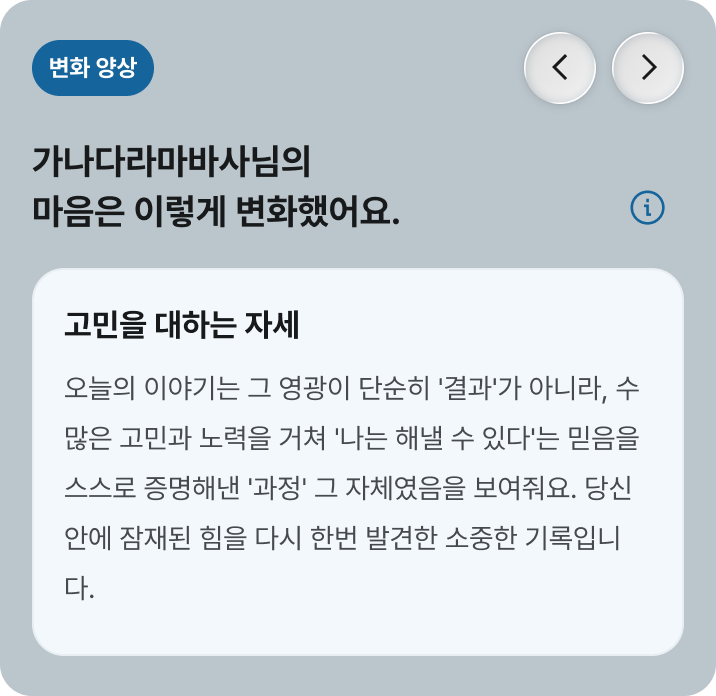
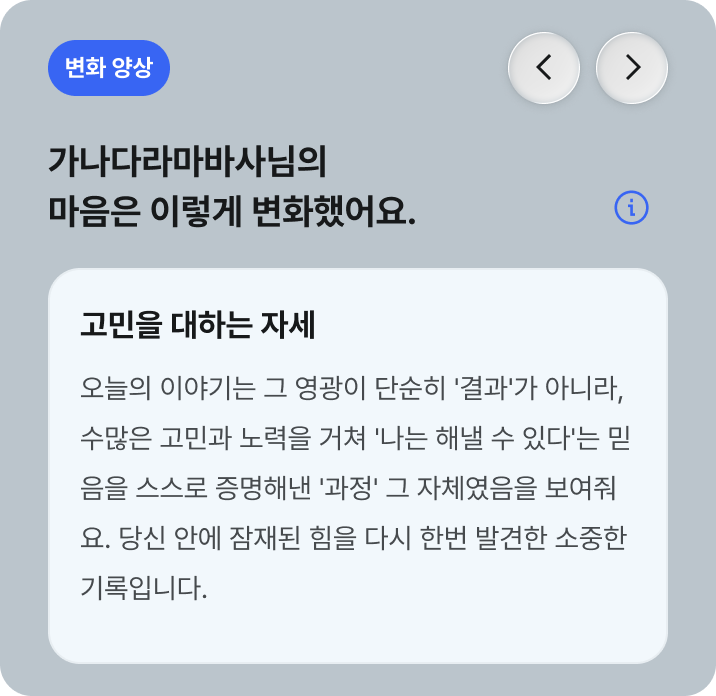
fix(ui): 디자인 변경 사항 반영

diff --git a/src/components/Icons.tsx b/src/components/Icons.tsx
@@ -60,7 +60,7 @@ export function RoundEmailIcon() {
     >
       <path
         d="M20 4H4C2.9 4 2.01 4.9 2.01 6L2 18C2 19.1 2.9 20 4 20H20C21.1 20 22 19.1 22 18V6C22 4.9 21.1 4 20 4ZM19.6 8.25L12.53 12.67C12.21 12.87 11.79 12.87 11.47 12.67L4.4 8.25C4.29973 8.19371 4.21192 8.11766 4.14189 8.02645C4.07186 7.93525 4.02106 7.83078 3.99258 7.71937C3.96409 7.60796 3.9585 7.49194 3.97616 7.37831C3.99381 7.26468 4.03434 7.15581 4.09528 7.0583C4.15623 6.96079 4.23632 6.87666 4.33073 6.811C4.42513 6.74533 4.53187 6.69951 4.6445 6.6763C4.75712 6.65309 4.87328 6.65297 4.98595 6.67595C5.09863 6.69893 5.20546 6.74453 5.3 6.81L12 11L18.7 6.81C18.7945 6.74453 18.9014 6.69893 19.014 6.67595C19.1267 6.65297 19.2429 6.65309 19.3555 6.6763C19.4681 6.69951 19.5749 6.74533 19.6693 6.811C19.7637 6.87666 19.8438 6.96079 19.9047 7.0583C19.9657 7.15581 20.0062 7.26468 20.0238 7.37831C20.0415 7.49194 20.0359 7.60796 20.0074 7.71937C19.9789 7.83078 19.9281 7.93525 19.8581 8.02645C19.7881 8.11766 19.7003 8.19371 19.6 8.25Z"
-        fill="#3D3C3C"
+        fill="var(--color-icon-default)"
       />
     </svg>
   );
@@ -79,13 +79,13 @@ export function ArrowLeftIcon() {
         fillRule="evenodd"
         clipRule="evenodd"
         d="M5.06055 10.7803H20.0605V12.2803H5.06055V10.7803Z"
-        fill="#3D3C3C"
+        fill="var(--color-icon-default)"
       />
       <path
         fillRule="evenodd"
         clipRule="evenodd"
         d="M6.12132 11.5303L12.591 5.06066L11.5303 4L4 11.5303L11.5303 19.0607L12.591 18L6.12132 11.5303Z"
-        fill="#3D3C3C"
+        fill="var(--color-icon-default)"
       />
     </svg>
   );
@@ -189,7 +189,6 @@ export function ChevronRightIcon() {
 export function BarChartSquareFilledIcon() {
   return (
     <svg
-      className="text-icon-primary"
       width="36"
       height="36"
       viewBox="0 0 36 36"
@@ -198,7 +197,7 @@ export function BarChartSquareFilledIcon() {
     >
       <path
         d="M3 3V33H33V3H3ZM13.5 25.5H10.5V16.5H13.5V25.5ZM19.5 25.5H16.5V13.5H19.5V25.5ZM25.5 25.5H22.5V10.5H25.5V25.5Z"
-        fill="currentColor"
+        fill="var(--color-icon-primary)"
       />
     </svg>
   );
@@ -215,7 +214,7 @@ export function HappyFilledIcon() {
     >
       <path
         d="M18.75 3C10.05 3 3 10.05 3 18.75C3 27.45 10.05 34.5 18.75 34.5C27.45 34.5 34.5 27.45 34.5 18.75C34.5 10.05 27.45 3 18.75 3ZM13.5 12.75C14.7 12.75 15.75 13.8 15.75 15C15.75 16.2 14.7 17.25 13.5 17.25C12.3 17.25 11.25 16.2 11.25 15C11.25 13.8 12.3 12.75 13.5 12.75ZM18.75 26.85C16.2 26.85 13.65 25.95 11.7 24L13.8 21.9C16.5 24.6 21 24.6 23.7 21.9L25.8 24C23.85 25.95 21.3 26.85 18.75 26.85ZM24 17.25C22.8 17.25 21.75 16.2 21.75 15C21.75 13.8 22.8 12.75 24 12.75C25.2 12.75 26.25 13.8 26.25 15C26.25 16.2 25.2 17.25 24 17.25Z"
-        fill="#15649B"
+        fill="var(--color-icon-primary)"
       />
     </svg>
   );
@@ -232,15 +231,15 @@ export function CoffeeFilledIcon() {
     >
       <path
         d="M11.25 7.50026C11.25 7.61276 11.1765 7.73426 11.0445 7.84376C10.4055 8.37176 10.317 9.31676 10.845 9.95576C11.142 10.3143 11.5695 10.5003 12.0015 10.5003C12.339 10.5003 12.6765 10.3878 12.957 10.1568C13.779 9.47576 14.2515 8.50826 14.2515 7.50026C14.2515 6.49226 13.7805 5.52476 12.957 4.84376C12.825 4.73426 12.7515 4.61126 12.7515 4.50026C12.7515 4.38926 12.825 4.26625 12.957 4.15676C13.596 3.62876 13.6845 2.68376 13.1565 2.04476C12.627 1.40576 11.682 1.31726 11.0445 1.84526C10.2225 2.52626 9.75 3.49376 9.75 4.50176C9.75 5.50976 10.221 6.47726 11.0445 7.15826C11.1765 7.26776 11.25 7.38926 11.25 7.50026Z"
-        fill="#15649B"
+        fill="var(--color-icon-primary)"
       />
       <path
         d="M17.25 7.50026C17.25 7.61276 17.1765 7.73426 17.0445 7.84376C16.4055 8.37176 16.317 9.31676 16.845 9.95576C17.142 10.3143 17.5695 10.5003 18.0015 10.5003C18.339 10.5003 18.6765 10.3878 18.957 10.1568C19.779 9.47576 20.2515 8.50826 20.2515 7.50026C20.2515 6.49226 19.7805 5.52476 18.957 4.84376C18.825 4.73426 18.7515 4.61126 18.7515 4.50026C18.7515 4.38926 18.825 4.26625 18.957 4.15676C19.5945 3.62876 19.686 2.68376 19.1565 2.04476C18.6285 1.40576 17.6835 1.31726 17.0445 1.84526C16.2225 2.52626 15.75 3.49376 15.75 4.50176C15.75 5.50976 16.221 6.47726 17.0445 7.15826C17.1765 7.26776 17.25 7.38926 17.25 7.50026Z"
-        fill="#15649B"
+        fill="var(--color-icon-primary)"
       />
       <path
         d="M27.75 13.5H27C27 12.672 26.3295 12 25.5 12H6C5.172 12 4.5 12.672 4.5 13.5V27C4.5 31.1355 7.8645 34.5 12 34.5H19.5C23.6355 34.5 27 31.1355 27 27H27.75C31.4715 27 34.5 23.9715 34.5 20.25C34.5 16.5285 31.4715 13.5 27.75 13.5ZM27.75 24H27V16.5H27.75C29.8185 16.5 31.5 18.183 31.5 20.25C31.5 22.317 29.8185 24 27.75 24Z"
-        fill="#15649B"
+        fill="var(--color-icon-primary)"
       />
     </svg>
   );
@@ -249,7 +248,6 @@ export function CoffeeFilledIcon() {
 export function UsersFilledIcon() {
   return (
     <svg
-      className="text-icon-primary"
       width="36"
       height="36"
       viewBox="0 0 36 36"
@@ -258,19 +256,37 @@ export function UsersFilledIcon() {
     >
       <path
         d="M13.95 18C15.84 18 17.595 17.19 18.675 15.975C20.025 14.625 20.7 13.005 20.7 11.25C20.7 9.495 19.89 7.605 18.675 6.525C17.325 5.175 15.705 4.5 13.95 4.5C12.195 4.5 10.305 5.31 9.225 6.525C7.875 7.875 7.2 9.495 7.2 11.25C7.2 13.005 7.875 14.895 9.225 15.975C10.575 17.325 12.195 18 13.95 18Z"
-        fill="currentColor"
+        fill="var(--color-icon-primary)"
       />
       <path
         d="M21.51 22.725C20.295 21.375 18.675 20.7 16.65 20.7H11.25C9.495 20.7 7.875 21.375 6.525 22.59C5.175 23.805 4.5 25.425 4.5 27.45V31.5H23.4V27.45C23.4 25.695 22.725 24.075 21.51 22.725Z"
-        fill="currentColor"
+        fill="var(--color-icon-primary)"
       />
       <path
         d="M29.61 22.725C28.395 21.375 26.775 20.7 24.75 20.7H23.13C23.13 20.7 23.265 20.835 23.4 20.97C25.155 22.725 26.1 25.02 26.1 27.45V31.5H31.5V27.45C31.5 25.695 30.825 24.075 29.61 22.725Z"
-        fill="currentColor"
+        fill="var(--color-icon-primary)"
       />
       <path
         d="M26.775 6.525C25.425 5.175 23.805 4.5 22.05 4.5C20.295 4.5 21.105 4.5 20.7 4.635C22.455 6.255 23.4 8.685 23.4 11.25C23.4 13.815 22.455 15.975 20.7 17.865C21.105 17.865 21.645 18 22.05 18C23.94 18 25.695 17.19 26.775 15.975C28.125 14.625 28.8 13.005 28.8 11.25C28.8 9.495 27.99 7.605 26.775 6.525Z"
-        fill="currentColor"
+        fill="var(--color-icon-primary)"
+      />
+    </svg>
+  );
+}
+
+// Todo: 하나로 합치자....
+export function CategoryCircleCheckFilledIcon() {
+  return (
+    <svg
+      width="24"
+      height="24"
+      viewBox="0 0 24 24"
+      fill="none"
+      xmlns="http://www.w3.org/2000/svg"
+    >
+      <path
+        d="M12 1C5.935 1 1 5.935 1 12C1 18.065 5.935 23 12 23C18.065 23 23 18.065 23 12C23 5.935 18.065 1 12 1ZM10.309 16.751L6.288 12.674L7.712 11.27L10.32 13.915L16.294 7.958L17.706 9.374L10.309 16.751Z"
+        fill="var(--color-icon-primary)"
       />
     </svg>
   );
@@ -332,7 +348,7 @@ export function SuccessIcon({ className }: { className?: string }) {
         fillRule="evenodd"
         clipRule="evenodd"
         d="M9.51049 15.4674L19.0044 6L20.0636 7.06214L9.50156 17.5947L4 12.0157L5.06805 10.9625L9.51049 15.4674Z"
-        fill="#16A34A"
+        fill="var(--color-icon-success)"
       />
     </svg>
   );
@@ -350,7 +366,7 @@ export function CircleCheckFilledIcon() {
     >
       <path
         d="M27.9996 12.5999C19.5086 12.5999 12.5996 19.5089 12.5996 27.9999C12.5996 36.4909 19.5086 43.3999 27.9996 43.3999C36.4906 43.3999 43.3996 36.4909 43.3996 27.9999C43.3996 19.5089 36.4906 12.5999 27.9996 12.5999ZM25.6322 34.6513L20.0028 28.9435L21.9964 26.9779L25.6476 30.6809L34.0112 22.3411L35.988 24.3235L25.6322 34.6513Z"
-        fill="#15649B"
+        fill="var(--color-icon-primary)"
       />
     </svg>
   );
@@ -370,19 +386,19 @@ export function MenuIcon() {
         fillRule="evenodd"
         clipRule="evenodd"
         d="M24.5 14.5834L3.5 14.5834V12.8334L24.5 12.8334V14.5834Z"
-        fill="#17191A"
+        fill="var(--color-icon-default)"
       />
       <path
         fillRule="evenodd"
         clipRule="evenodd"
         d="M24.5 7.58337L3.5 7.58337L3.5 5.83337L24.5 5.83337V7.58337Z"
-        fill="#17191A"
+        fill="var(--color-icon-default)"
       />
       <path
         fillRule="evenodd"
         clipRule="evenodd"
         d="M24.5 21.5834L3.5 21.5834L3.5 19.8334L24.5 19.8334V21.5834Z"
-        fill="#17191A"
+        fill="var(--color-icon-default)"
       />
     </svg>
   );

diff --git a/src/features/LandingPage.tsx b/src/features/LandingPage.tsx
@@ -40,9 +40,9 @@ export function LandingPage() {
     <div className="w-full h-full flex flex-col items-center pt-padding-y-m">
       {/* 위 절반 */}
       <div className="flex-1 flex flex-col justify-center items-center">
-        <ColoredMainLogo style={{ height: `${(180 / 796) * 100}dvh` }} />
-        <div className="mt-margin-y-xl mb-margin-y-s">
-          <ColoredTextLogo style={{ height: `${(36 / 796) * 100}dvh` }} />
+        <ColoredMainLogo style={{ height: `${(104.5 / 796) * 100}dvh` }} />
+        <div className="mt-padding-y-xxl mb-margin-y-m">
+          <ColoredTextLogo style={{ height: `${(30.4 / 796) * 100}dvh` }} />
         </div>
         <p className="text-label-m text-brand-primary-alpha-60">
           나에게 답하다

diff --git a/src/routes/(auth)/onboarding/category.tsx b/src/routes/(auth)/onboarding/category.tsx
@@ -6,6 +6,7 @@ import clsx from "clsx";
 import { useState } from "react";
 import useSignupStore from "@/store/signupStore";
 import { getNextStepPath } from "@/features/auth/signupSteps";
+import { CategoryCircleCheckFilledIcon } from "@/components/Icons";
 
 export const Route = createFileRoute("/(auth)/onboarding/category")({
   component: Category,
@@ -71,7 +72,10 @@ function Category() {
                 )}
               >
                 <Icon />{" "}
-                <p className="text-title-3 text-text-primary">{item.title}</p>
+                <p className="text-title-3 text-text-primary mr-auto">
+                  {item.title}
+                </p>
+                {item.isSelected && <CategoryCircleCheckFilledIcon />}
               </li>
             );
           })}

diff --git a/src/routes/(auth)/onboarding/profile.tsx b/src/routes/(auth)/onboarding/profile.tsx
@@ -96,7 +96,7 @@ function Profile() {
           {/* <div className="bg-neutral-300 h-16 w-16 rounded-full" /> */}
           <button
             type="button"
-            className="text-interactive-text-primary text-label-m underline"
+            className="text-text-primary text-label-m underline"
             onClick={() => setIsModalOpen(true)}
           >
             사진 추가